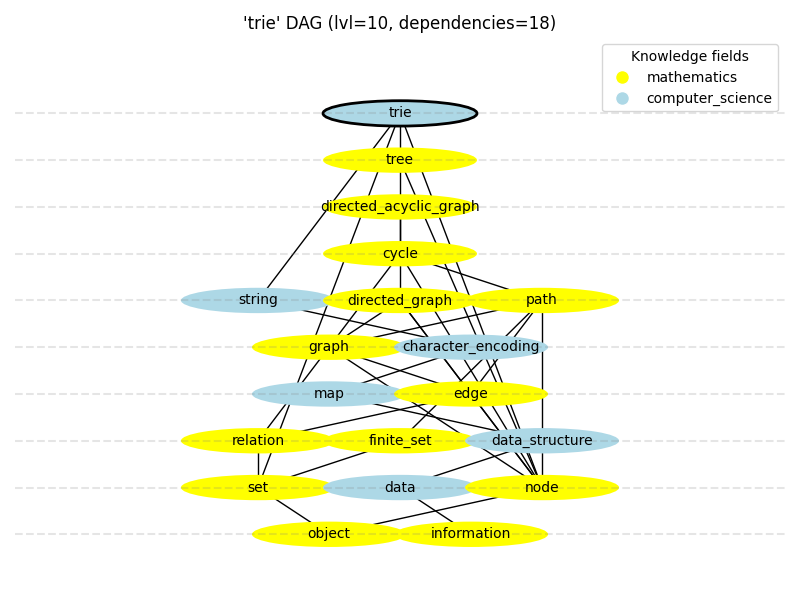
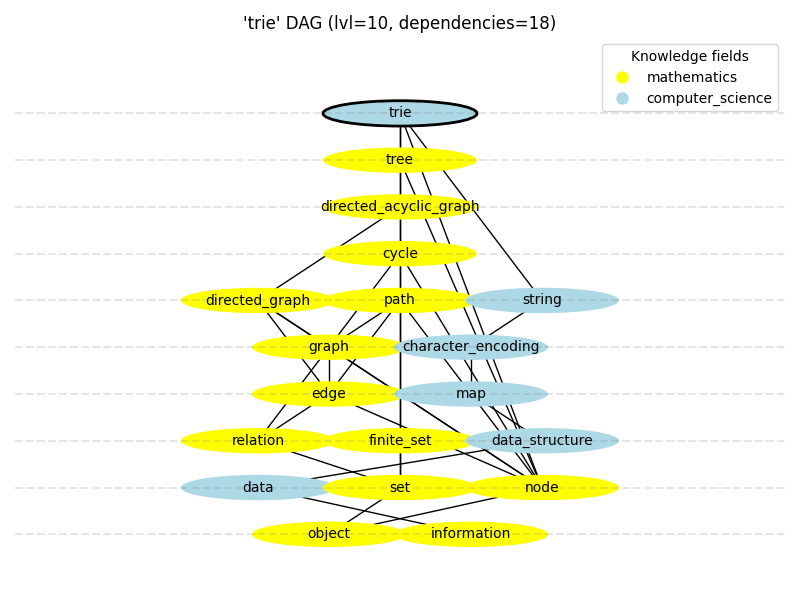
improvements

diff --git a/src/definit/visualization/dag/networkx.py b/src/definit/visualization/dag/networkx.py
@@ -1,6 +1,7 @@
 from dataclasses import dataclass
 from typing import Any
 
+import definit_db  # type: ignore
 import matplotlib.pyplot as plt
 import networkx as nx
 import numpy as np
@@ -181,7 +182,8 @@ class DAGVisualizationNetworkX(DAGVisualizationAbstract):
         no_dependencies = len(graph.edges())
         root_name = f"'{track}'" if track else "All definitions"
         ax.set_title(
-            f"{root_name} DAG (definitions={no_nodes}, dependencies={no_dependencies}, levels={max_level + 1})"
+            f"{root_name} DAG (definitions={no_nodes}, dependencies={no_dependencies}, levels={max_level + 1}). "
+            f"DB version: {definit_db.__version__}"
         )
 
         ax.set_aspect("equal")
@@ -189,8 +191,8 @@ class DAGVisualizationNetworkX(DAGVisualizationAbstract):
         ax.set_ylim(-1.2, 1.2)
         ax.axis("off")
 
-        ax.legend(handles=handles, labels=labels, title="Legend", loc="upper right", bbox_to_anchor=(1.1, 1.1))
-        fig.tight_layout()
+        ax.legend(handles=handles, labels=labels, title="Legend", loc="lower left")
+        fig.tight_layout(rect=(0.25, 0, 0.75, 1))
         plt.show()
 
     def show(self, dag: DAG, root: DefinitionKey | None = None) -> None:

diff --git a/src/definit/test/visualization/test_networkx.py b/src/definit/test/visualization/test_networkx.py
@@ -26,7 +26,7 @@ class TestNetworkx:
         # Given
         data_parser = DatabaseMd()
         data_parser.load_cache()
-        track = Track.ALGORITHMS
+        track = Track.DATA_STRUCTURES
         dag = data_parser.get_dag(track=track)
         dag_visualization = DAGVisualizationNetworkX()
         # When

diff --git a/src/definit/test/data_parser/test_data_parser_md.py b/src/definit/test/data_parser/test_data_parser_md.py
@@ -22,5 +22,5 @@ class TestDataParserMD:
         index = data_parser.get_index()
         # Then
         assert index is not None
-        assert len(index) == 89
+        assert len(index) == 92
         [data_parser.get_dag_for_definition(root=definition) for definition in index]

diff --git a/src/definit/db/md.py b/src/definit/db/md.py
@@ -2,7 +2,7 @@ import re
 from dataclasses import dataclass
 from pathlib import Path
 
-from definit_db import CONFIG
+from definit_db import CONFIG  # type: ignore
 
 from definit.dag.dag import DAG
 from definit.dag.dag import Definition
